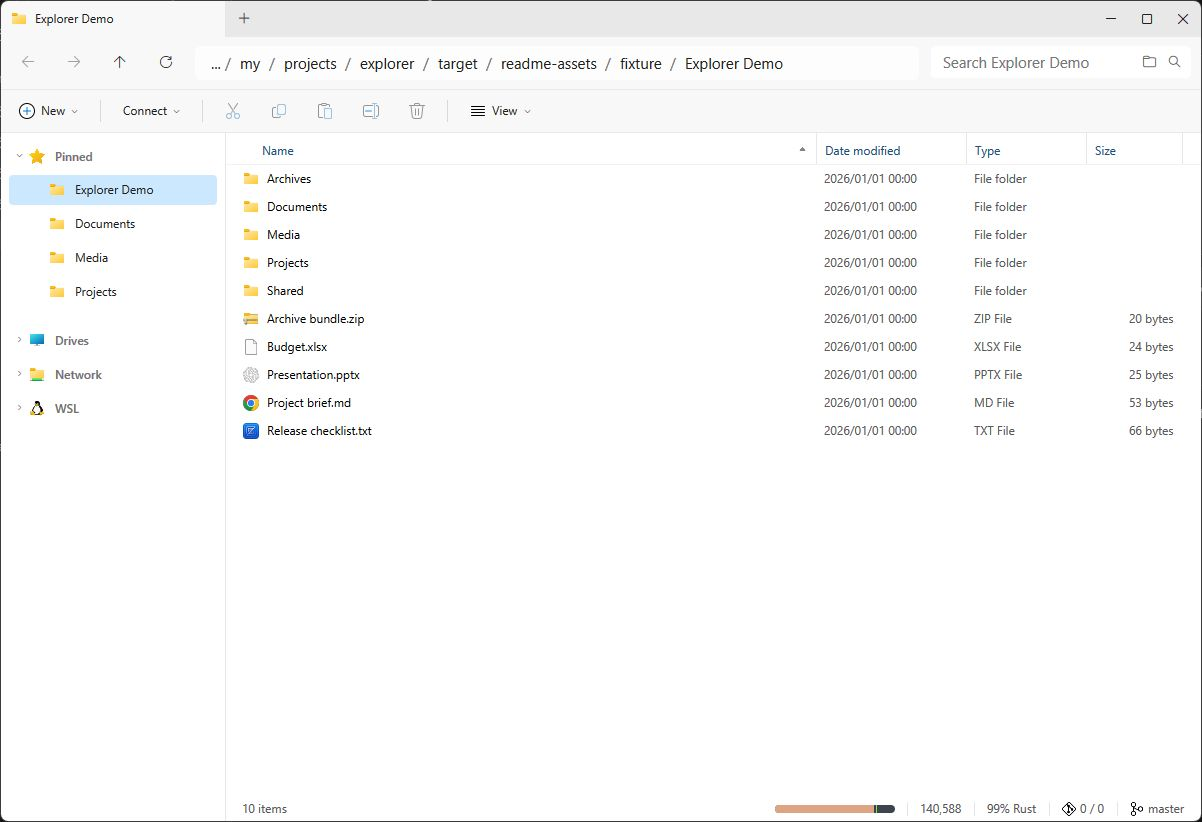
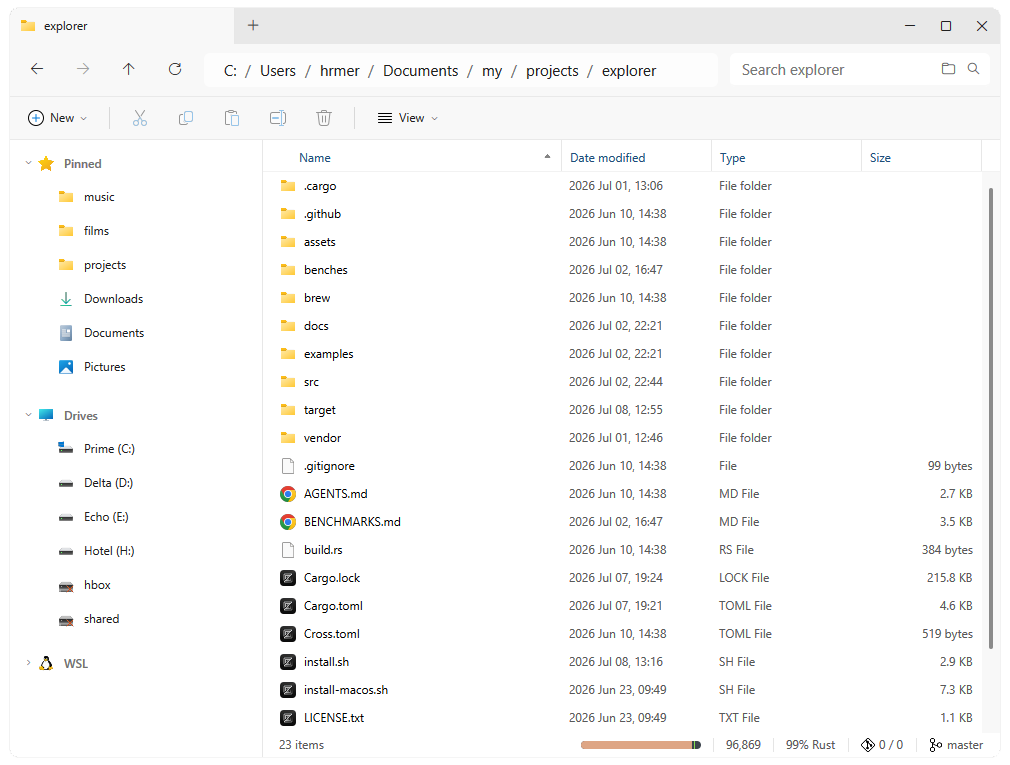
feat: improve site

diff --git a/website/src/components/site.tsx b/website/src/components/site.tsx
@@ -41,6 +41,19 @@ export function DownloadIcon() {
   )
 }
 
+export function GitHubIcon() {
+  return (
+    <svg
+      viewBox="0 0 24 24"
+      fill="currentColor"
+      aria-hidden="true"
+      className="github-icon"
+    >
+      <path d="M12 .297c-6.63 0-12 5.373-12 12 0 5.303 3.438 9.8 8.205 11.385.6.113.82-.258.82-.577 0-.285-.01-1.04-.015-2.04-3.338.724-4.042-1.61-4.042-1.61C4.422 18.07 3.633 17.7 3.633 17.7c-1.087-.744.084-.729.084-.729 1.205.084 1.838 1.236 1.838 1.236 1.07 1.835 2.809 1.305 3.495.998.108-.776.417-1.305.76-1.605-2.665-.3-5.466-1.332-5.466-5.93 0-1.31.465-2.38 1.235-3.22-.135-.303-.54-1.523.105-3.176 0 0 1.005-.322 3.3 1.23.96-.267 1.98-.399 3-.405 1.02.006 2.04.138 3 .405 2.28-1.552 3.285-1.23 3.285-1.23.645 1.653.24 2.873.12 3.176.765.84 1.23 1.91 1.23 3.22 0 4.61-2.805 5.625-5.475 5.92.42.36.81 1.096.81 2.22 0 1.606-.015 2.896-.015 3.286 0 .315.21.69.825.57C20.565 22.092 24 17.592 24 12.297c0-6.627-5.373-12-12-12" />
+    </svg>
+  )
+}
+
 export function Header() {
   const [open, setOpen] = useState(false)
   const toggle = useRef<HTMLButtonElement>(null)
@@ -79,7 +92,7 @@ export function Header() {
         ))}
       </nav>
       <a className="header-github" href={REPOSITORY}>
-        GitHub <Arrow />
+        GitHub <GitHubIcon />
       </a>
       <a className="header-download" href="#get-it">
         Download <Arrow down />
@@ -111,10 +124,12 @@ export function CopyButton({
   text,
   label = 'Copy',
   success = 'Copied',
+  icon,
 }: {
   text: string
   label?: string
   success?: string
+  icon?: ReactNode
 }) {
   const [status, setStatus] = useState<'idle' | 'copied' | 'failed'>('idle')
   const timer = useRef<ReturnType<typeof setTimeout> | null>(null)
@@ -137,6 +152,7 @@ export function CopyButton({
   return (
     <span className="copy-control">
       <button type="button" onClick={copy}>
+        {icon}
         {label}
       </button>
       <span className="copy-feedback" role="status">
@@ -178,7 +194,29 @@ export function ShareLinks() {
   return (
     <div className="share-links" aria-label="Share Explorer">
       <span>Share</span>
-      <CopyButton text={SITE_URL} label="Copy link" success="Link copied" />
+      <CopyButton
+        text={SITE_URL}
+        label="Copy link"
+        success="Link copied"
+        icon={
+          <svg
+            xmlns="http://www.w3.org/2000/svg"
+            width="24"
+            height="24"
+            viewBox="0 0 24 24"
+            fill="none"
+            stroke="currentColor"
+            strokeWidth="2"
+            strokeLinecap="round"
+            strokeLinejoin="round"
+            className="copy-icon"
+            aria-hidden="true"
+          >
+            <rect width="14" height="14" x="8" y="8" rx="2" ry="2" />
+            <path d="M4 16c-1.1 0-2-.9-2-2V4c0-1.1.9-2 2-2h10c1.1 0 2 .9 2 2" />
+          </svg>
+        }
+      />
       <a
         href={`https://x.com/intent/post?text=${text}&url=${url}`}
         aria-label="Share on X"
@@ -270,17 +308,19 @@ export function ButtonLink({
   children,
   down = false,
   download = false,
+  icon,
 }: {
   href: string
   primary?: boolean
   children: ReactNode
   down?: boolean
   download?: boolean
+  icon?: ReactNode
 }) {
   return (
     <a href={href} className={`button ${primary ? 'button-primary' : ''}`}>
       {children}
-      {download ? <DownloadIcon /> : <Arrow down={down} />}
+      {icon ?? (download ? <DownloadIcon /> : <Arrow down={down} />)}
     </a>
   )
 }

diff --git a/website/src/styles.css b/website/src/styles.css
@@ -165,7 +165,8 @@ h3 {
   line-height: 1;
   flex-shrink: 0;
 }
-.download-icon {
+.download-icon,
+.github-icon {
   width: 16px;
   height: 16px;
   flex-shrink: 0;
@@ -354,22 +355,26 @@ h1 {
   color: var(--blue);
 }
 .platform-label {
-  color: var(--muted);
-  margin-top: 32px;
+  color: rgba(16, 16, 20, 0.42);
+  margin-top: 24px;
 }
 .share-links {
   display: flex;
   flex-wrap: wrap;
-  align-items: center;
+  align-items: stretch;
   justify-content: center;
   margin-top: 24px;
 }
 .share-links > span:first-child {
-  padding: 9px 12px;
   color: var(--muted);
 }
+.share-links > span:first-child,
 .share-links > a,
 .share-links button {
+  display: inline-flex;
+  align-items: center;
+  justify-content: center;
+  gap: 8px;
   padding: 9px 12px;
   border: 1px solid var(--line);
   background: transparent;
@@ -377,8 +382,13 @@ h1 {
   letter-spacing: inherit;
   text-transform: inherit;
 }
-.share-links > a + a {
-  border-left: 0;
+.share-links > :not(:last-child) {
+  margin-right: -1px;
+}
+.copy-icon {
+  width: 14px;
+  height: 14px;
+  flex-shrink: 0;
 }
 .share-links a:hover,
 .share-links button:hover {
@@ -486,16 +496,21 @@ h1 {
 .full-size {
   position: absolute;
   right: 16px;
-  top: 16px;
+  bottom: 16px;
   display: inline-flex;
   align-items: center;
   gap: 12px;
   padding: 8px 12px;
   background: var(--paper);
   border: 1px solid var(--line);
-  transition: background 150ms;
+  opacity: 0;
+  transition:
+    opacity 150ms,
+    background 150ms;
 }
-.gallery-image:hover .full-size {
+.gallery-image:hover .full-size,
+.gallery-image:focus-visible .full-size {
+  opacity: 1;
   background: white;
 }
 .gallery-grid .image-caption {
@@ -1047,6 +1062,7 @@ pre {
     row-gap: 8px;
     font-size: 10px;
   }
+  .share-links > span:first-child,
   .share-links > a,
   .share-links button {
     padding-inline: 8px;

diff --git a/website/src/routes/index.tsx b/website/src/routes/index.tsx
@@ -11,6 +11,7 @@ import {
   ButtonLink,
   Arrow,
   DownloadIcon,
+  GitHubIcon,
 } from '../components/site'
 import { REPOSITORY, RELEASES_URL } from '../lib/releases'
 import type { Platform, ReleaseAsset, ReleaseInfo } from '../lib/releases'
@@ -124,7 +125,9 @@ function Hero({
           <ButtonLink href={href} primary down download={!href.startsWith('#')}>
             {label}
           </ButtonLink>
-          <ButtonLink href={REPOSITORY}>View on GitHub</ButtonLink>
+          <ButtonLink href={REPOSITORY} icon={<GitHubIcon />}>
+            View on GitHub
+          </ButtonLink>
         </div>
         <a className="other-downloads label" href="#get-it">
           Other platforms and downloads <Arrow down />
@@ -144,7 +147,7 @@ function Hero({
           aria-label="View the Explorer overview screenshot at full size"
         >
           <img
-            src="/images/overview.webp"
+            src="/images/overview.png"
             alt="Explorer’s details view with demo folders, a pinned sidebar and familiar file controls"
             width="1202"
             height="822"
